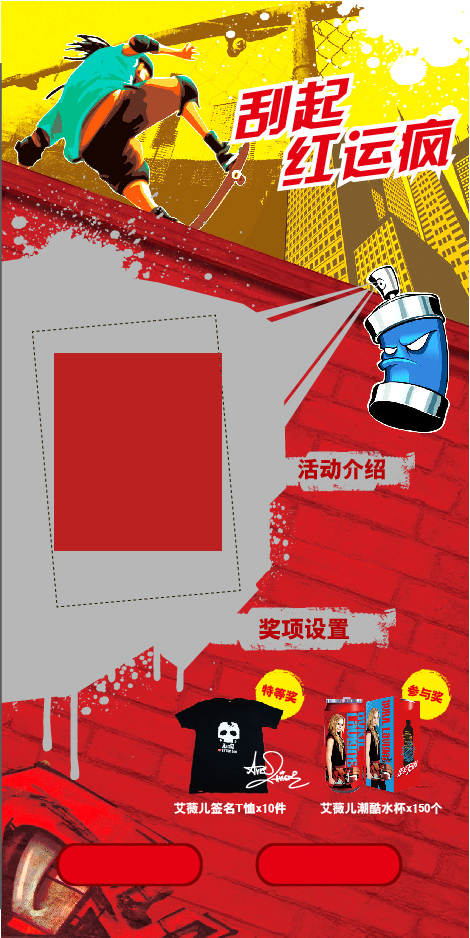
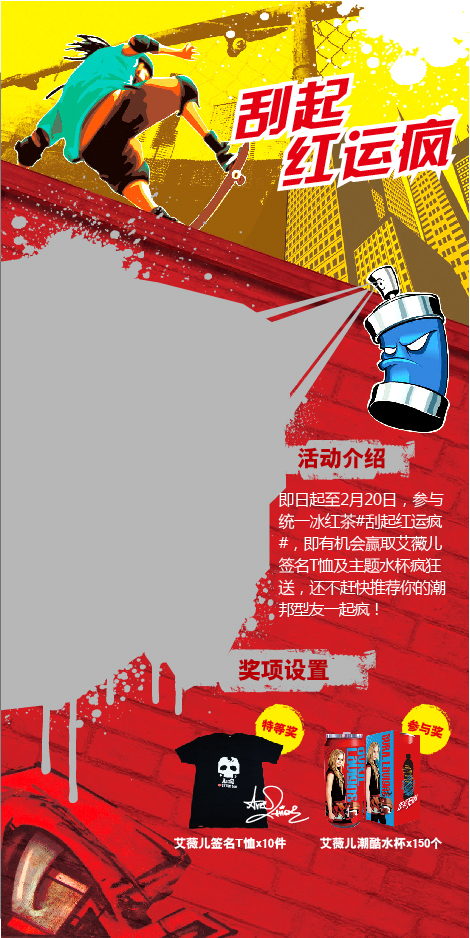
'm'

diff --git a/css/main.css b/css/main.css
@@ -87,7 +87,7 @@ img{
 	cursor: pointer;
     height:10%;
     position: absolute;
-    top: 57.7%;
+    top: 65.7%;
     width: 18%;
 	right:1%;
 }
@@ -95,8 +95,8 @@ img{
 	cursor: pointer;
 	height:9%;
     position: absolute;
-    top: 89.2%;
-    width: 32%;
+    top: 93.7%;
+    width: 31%;
 	left:12%;
 	
 }
@@ -104,8 +104,8 @@ img{
 	cursor: pointer;
 	height:9%;
     position: absolute;
-    top: 89.2%;
-    width: 32%;
+    top: 93.7%;
+    width: 31%;
 	right:13.7%;
 	
 }

diff --git a/index.php b/index.php
@@ -58,11 +58,6 @@
 			}
 		});
         </script>
-        <div class="compain_detail" >
-           亲爱的活动，我们要开 
-           亲爱的活动，我们要开 
-           亲爱的活动，我们要开 
-        </div>
         <div class="detail" ><a href="http://www.baidu.com"><img  name="detail"  src="./images/detail.png" /></a></div>
         <div class="user" ><img  name="user"  src="./images/user.png" /></div>
         <div class="win" ><img  name="win"  src="./images/win.png" /></div>
